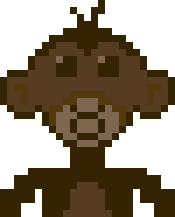
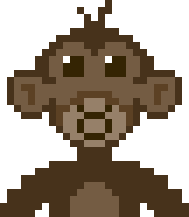
restart function now working

diff --git a/index.html b/index.html
@@ -22,29 +22,30 @@
 							<div class="modal-body">
 								<p class="completionText">Great job! It seems like you did a little better with a little help!</p>
 								<div class="buttonWrapper">
-									<button class="toPortfolioButton">Check out Summer's Portfolio</button>
-									<button class="playAgainButton">Play again</button>
+									<button class="modalButton toPortfolioButton">Check out Summer's Portfolio</button>
+									<button class="modalButton playAgainButton">Play again</button>
 								</div>
 								<div class="clearfix"></div>
 							</div>
 						</div>
 					</div>
 				</div>
+
+
 				<!-- view 1 -->
 				<div class="instruction1 surgeView">
 					<div class="row">
 						<div class="col-md-8 col-md-offset-2 col-sm-10 col-sm-offset-1 col-xs-12 col-xs-offset-0">
-							<div class="wrapperDiv">
-								<div style="float: left; margin-right: 25px; margin-bottom: -25px;">
-									<img src="assets/monkeyLight.png">
+							<div class="wrapperDiv row">
+								<div class="col-lg-4 col-md-4 col-sm-5">
+									<img src="assets/monkey.png">
 								</div>
-								<div>
+								<div class="col-lg-8 col-md-8 col-sm-7">
 									<p>Wufoosaurus, I need your help!</p>
 									<div style="text-align: right;">
-										<button style="margin-top: 54px;" class="button1">next</button>
+										<button class="viewButton button1">next</button>
 									</div>
 								</div>
-								<div class="clearfix"></div>
 							</div>
 						</div>
 					</div>
@@ -53,14 +54,14 @@
 				<div class="instruction2 surgeView">
 					<div class="row">
 						<div class="col-md-8 col-md-offset-2 col-sm-10 col-sm-offset-1 col-xs-12 col-xs-offset-0">
-							<div class="wrapperDiv">
-								<div style="float: left; margin-right: 25px; margin-bottom: -32px;">
-									<img src="assets/monkeyLight.png">
+							<div class="wrapperDiv row">
+								<div class="col-lg-4 col-md-4 col-sm-5">
+									<img src="assets/monkey.png">
 								</div>
-								<div>
+								<div class="col-lg-8 col-md-8 col-sm-7">
 									<p>Business has been booming. There are so many surveys that need to be collected, stat.</p>
 									<div style="text-align: right;">
-										<button style="margin-top: 2px;" class="button2">next</button>
+										<button class="viewButton button2">next</button>
 									</div>
 								</div>
 							</div>
@@ -71,14 +72,14 @@
 				<div class="instruction3 surgeView">
 					<div class="row">
 						<div class="col-md-8 col-md-offset-2 col-sm-10 col-sm-offset-1 col-xs-12 col-xs-offset-0">
-							<div class="wrapperDiv">
-								<div style="float: left; margin-right: 25px; margin-bottom: -25px;">
-									<img src="assets/monkeyLight.png">
+							<div class="wrapperDiv row">
+								<div class="col-lg-4 col-md-4 col-sm-5">
+									<img src="assets/monkey.png">
 								</div>
-								<div>
+								<div class="col-lg-8 col-md-8 col-sm-7">
 									<p>Catch as many surveys as your can, but be careful. Don't drop more than 3, or we're doomed!</p>
 									<div style="text-align: right;">
-										<button style="margin-top: 2px;" class="button3" id="start">ready? let's do this.</button>
+										<button class="viewButton button3" id="start">let's do this.</button>
 									</div>
 								</div>
 							</div>

diff --git a/app.js b/app.js
@@ -14,7 +14,7 @@ $(document).ready(function() {
 		wufooSaurusHeight = 158,
 		wufooSaurusSpeed = 10,
 		wufooSaurus = {
-			x: 50,
+			x: 30,
 			y: canvas.height - wufooSaurusHeight,
 			width: wufooSaurusWidth,
 			height: wufooSaurusHeight,
@@ -107,7 +107,7 @@ $(document).ready(function() {
 
 				// draw wufooSaurus
 				var img = new Image();
-				img.src = 'assets/wufooSaurus6.png';
+				img.src = 'assets/wufooSaurus.png';
 				function drawDino() {
 					context.drawImage(img, wufooSaurus.x, wufooSaurus.y-10);
 				}
@@ -141,7 +141,7 @@ $(document).ready(function() {
 			generateX: function() {
 				console.log('inside generateX func');
 				var imgX = new Image();
-				imgX.src = 'assets/x.png';
+				imgX.src = 'assets/redX.png';
 				function drawX() {
 					console.log(3);
 					counter+=20;
@@ -160,7 +160,7 @@ $(document).ready(function() {
 			},
 			setGame: function() {
 				score = startingScore;
-				wufooSaurus.x = 0;
+				wufooSaurus.x = 30;
 				xArr = [];
 				for (var i = 0; i < surveys.length; i++) {
 					helper.resetSurvey(surveys[i]);
@@ -218,13 +218,6 @@ $(document).ready(function() {
 	app.on('click', '.playAgainButton', function() {
 		$('#surveyModal').modal('hide');
 		helper.setGame();
-		for (var i = 0; i < surveys.length; i++) {
-			helper.resetSurvey(surveys[i]);
-		}
-		if (!continueAnimating) {
-			continueAnimating = true;
-			helper.animate();
-		}
 	});
 	app.on('click', '.toPortfolioButton', function() {
 		window.open('http://summermcdonald.me/', '_blank');

diff --git a/main.css b/main.css
@@ -65,7 +65,7 @@ html, body {
 	border: 1px solid #000;
 	border-radius: 8px;
 	background-color: #fff;
-	padding: 25px;
+	padding: 25px 25px 0 25px;
 }
 
 .surveySurge .surgeView p {
@@ -74,12 +74,14 @@ html, body {
 	margin-bottom: 20px;
 }
 
-.surveySurge button {
+.surveySurge .viewButton {
 	text-transform: uppercase;
 	background-color: #349BD2;
 	border: 3px solid #1879AD;
 	color: #fff;
 	padding: 10px 25px;
+	margin-top: 25px;
+	margin-bottom: 25px;
 }
 
 .surveySurge button:hover {
@@ -117,7 +119,8 @@ html, body {
 
 .surveySurge .modal button {
 	width: 450px;
-	float: none;
+	text-transform: uppercase;
+	padding: 10px 25px;
 }
 
 .surveySurge .modal .toPortfolioButton {
